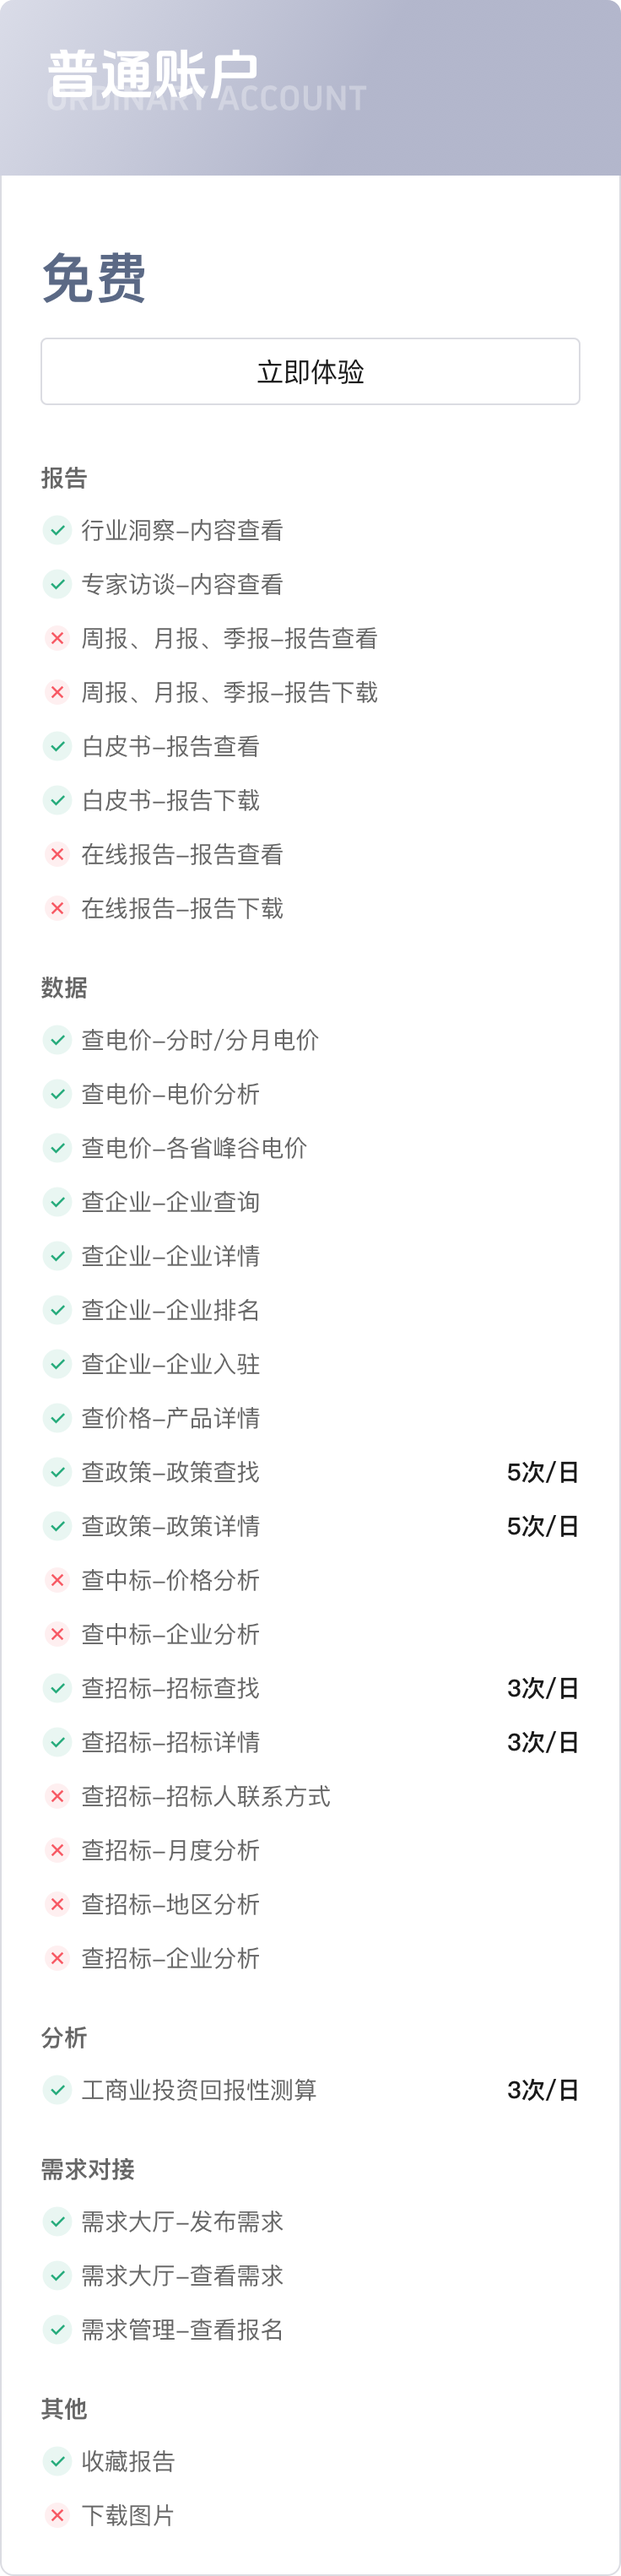
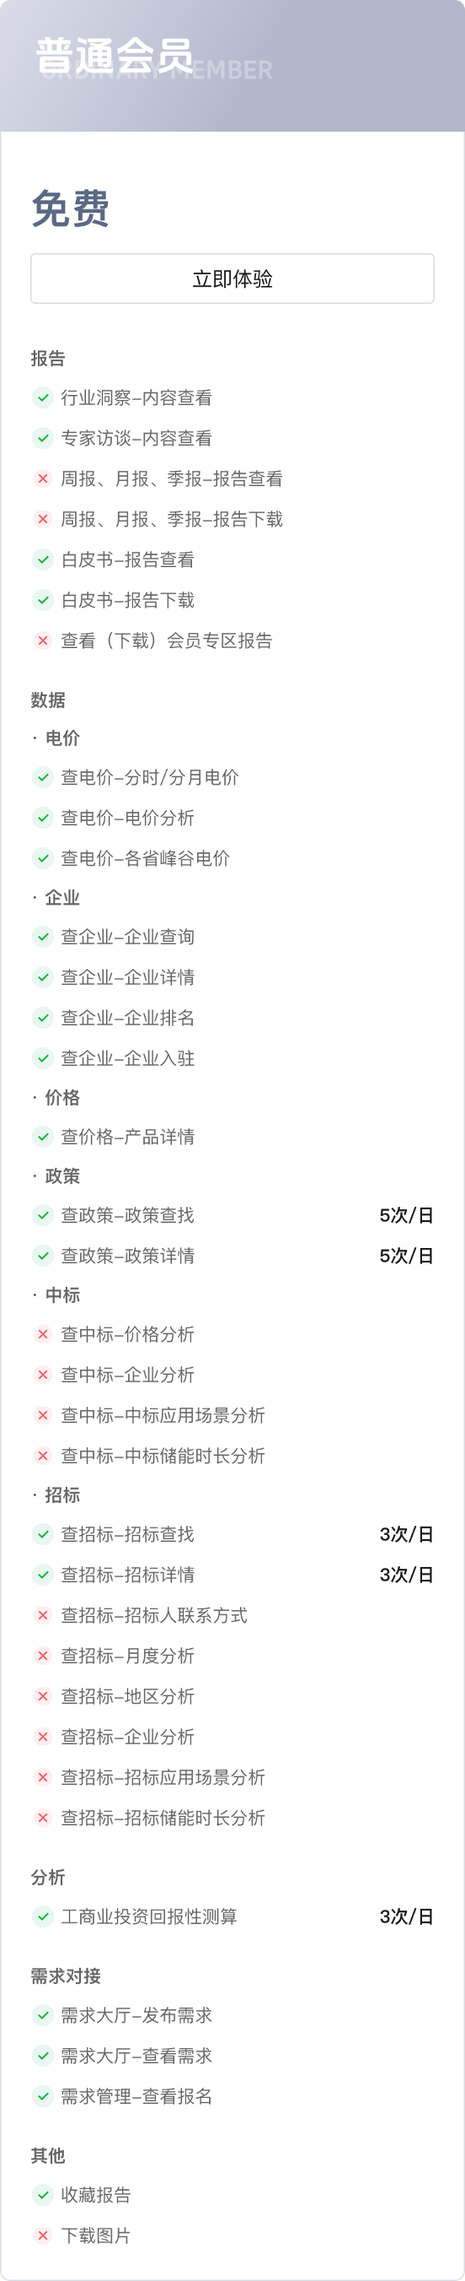
fix: modify image

diff --git a/src/views/vip/index.vue b/src/views/vip/index.vue
@@ -29,9 +29,9 @@
 import { ref } from "vue";
 import useNamespace from "@/utils/nameSpace";
 import cancel_icon from "@/assets/img/common/icon_clear.png";
-import account_business_bg from "@/assets/img/vip/account-business-bg.png";
-import account_ordinary_bg from "@/assets/img/vip/account-ordinary-bg.png";
-import account_standard_bg from "@/assets/img/vip/account-standard-bg.png";
+import account_business_bg from "@/assets/img/vip/account-business-bg.png"; // 企业会员
+import account_ordinary_bg from "@/assets/img/vip/account-ordinary-bg.png"; // 普通会员
+import account_standard_bg from "@/assets/img/vip/account-standard-bg.png"; // 个人会员
 import PayQR from "@/assets/img/vip/pay-member-qr.png";
 import { getToken } from "@/utils/auth";
 import { useRouter } from "vue-router";
@@ -75,14 +75,14 @@ const handleClick = (item) => {
     display: flex;
     justify-content: space-between;
     .item {
-      @include widthAndHeight(368px, 1528px);
+      @include widthAndHeight(368px, 1802px);
       position: relative;
       img {
         @include widthAndHeight(100%, 100%);
       }
       .item_btn {
-        @include widthAndHeight(304px, 40px);
-        @include absolute(2, 200px, 0, 0, 20px);
+        @include widthAndHeight(324px, 40px);
+        @include absolute(2, 200px, 0, 0, 22px);
         cursor: pointer;
       }
     }
